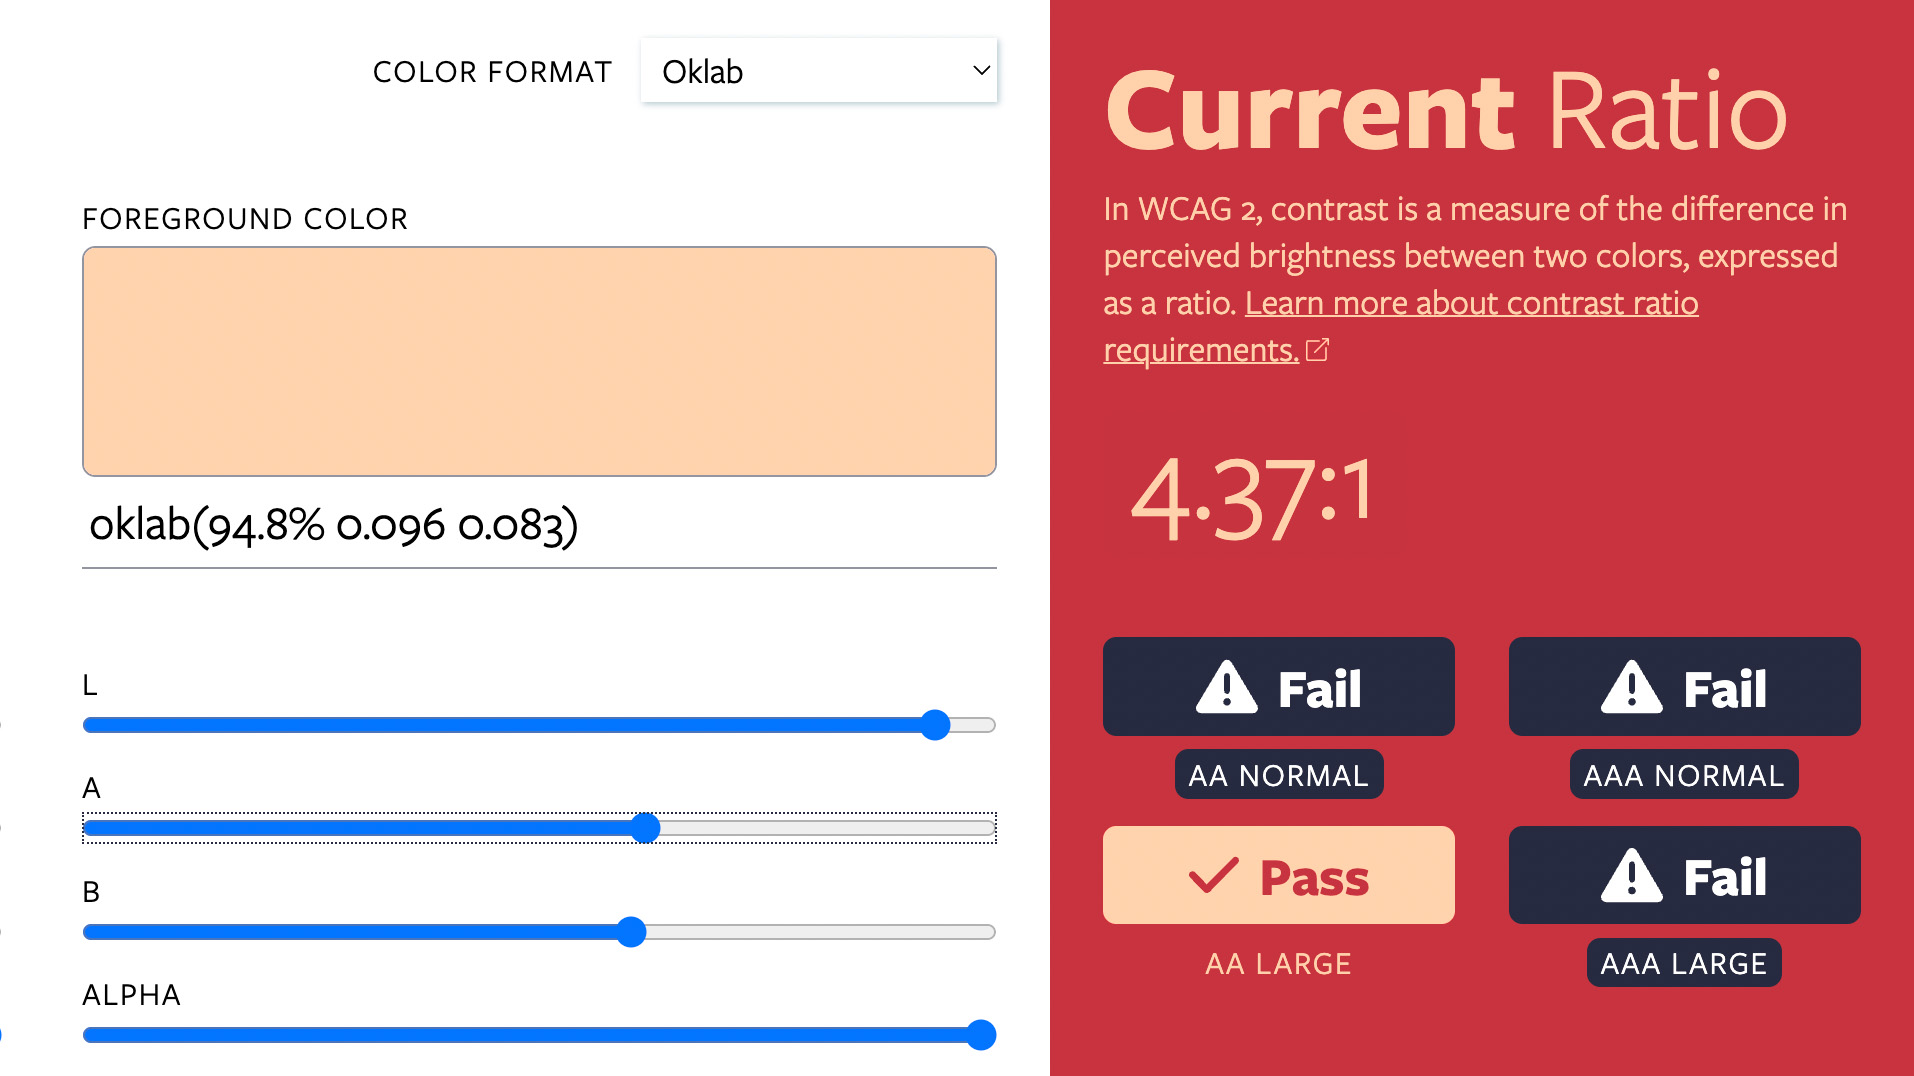
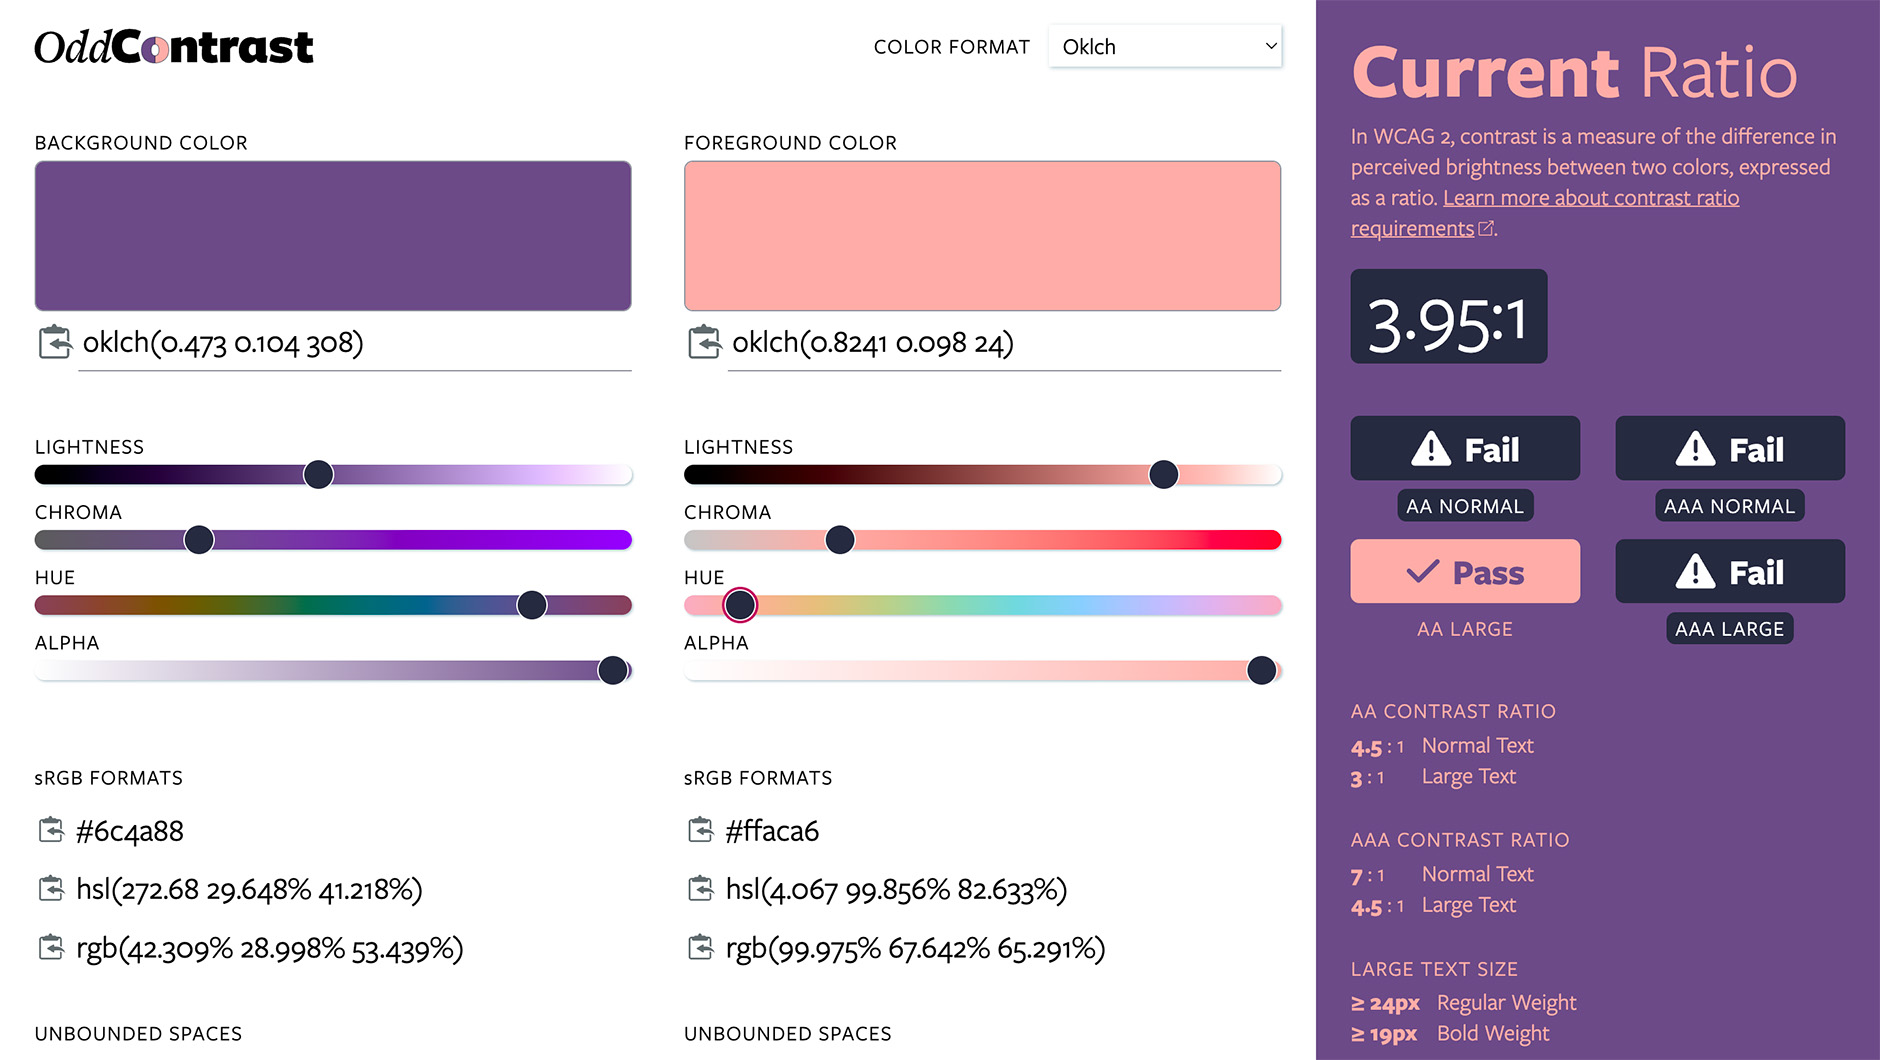
replaced screenshots of oddcontrast with updated screenshots

diff --git a/content/tools/oddcontrast.md b/content/tools/oddcontrast.md
@@ -6,7 +6,7 @@ date: 2022-12-31
 logo: oddcontrast
 image:
   position: top
-  src: projects/contrast.jpg
+  src: projects/contrast-hero.jpg
 oss: owner
 author: oddbird
 action:
@@ -37,8 +37,7 @@ desired color is back in gamut.
 
 {{ embed.img(
   src='projects/out-of-gamut.jpg',
-  alt='display-p3 light yellow color showing hexidecimal color
-    outside the sRGB and HSL gamuts'
+  alt='Oklab purple color showing a message next to sRGB Formats that says Selected color is outside the sRGB gamut with a link to more detailed information'
 ) }}
 
 ## Contrast Checker for Accessibility
@@ -51,9 +50,7 @@ tips and a link to learn more.
 
 {{ embed.img(
   src='projects/color-ratio.jpg',
-  alt='showing the red and yellow colors at 4.37:1 contrast ratio
-    failing for AA Normal, AAA Normal, and AAA Large font sizes,
-    but passing for AA Large font size'
+  alt='showing a purple background color and a peach foreground color with a 3.95:1 contrast ratio failing for AA Normal, AAA Normal, and AAA Large font sizes, but passing for AA Large font size'
 ) }}
 
 ## What New Features Should OddContrast Have?

diff --git a/README.md b/README.md
@@ -22,8 +22,9 @@ if necessary, then run `nvm install` (once per active shell) to use the correct
 version of Node for OddSite development.
 
 The correct [Yarn](https://yarnpkg.com/) version is included with Node, and will
-be used automatically for any `yarn` command. To activate it, run `corepack
-enable` (once per local Node installation).
+be used automatically for any `yarn` command. To activate it, run
+`corepack enable`
+(once per local Node installation).
 
 To upgrade the Node version used by OddSite, update the version number in these
 places and then run `nvm install` to upgrade:
